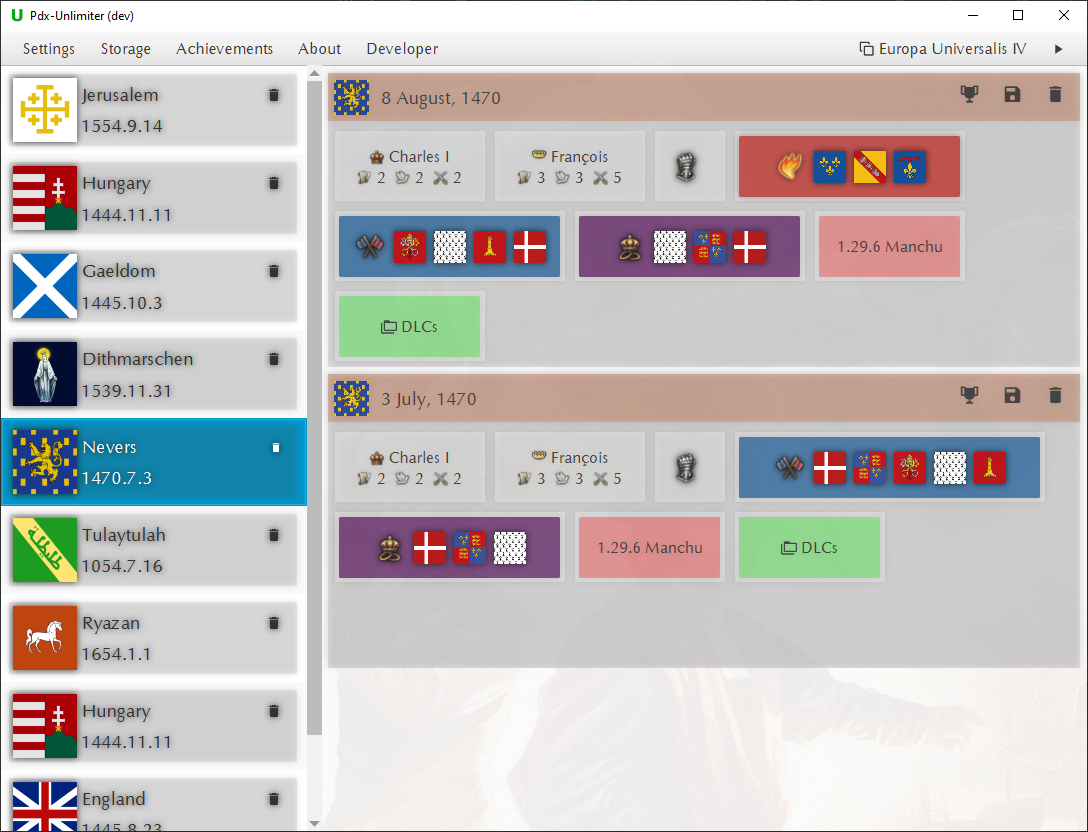
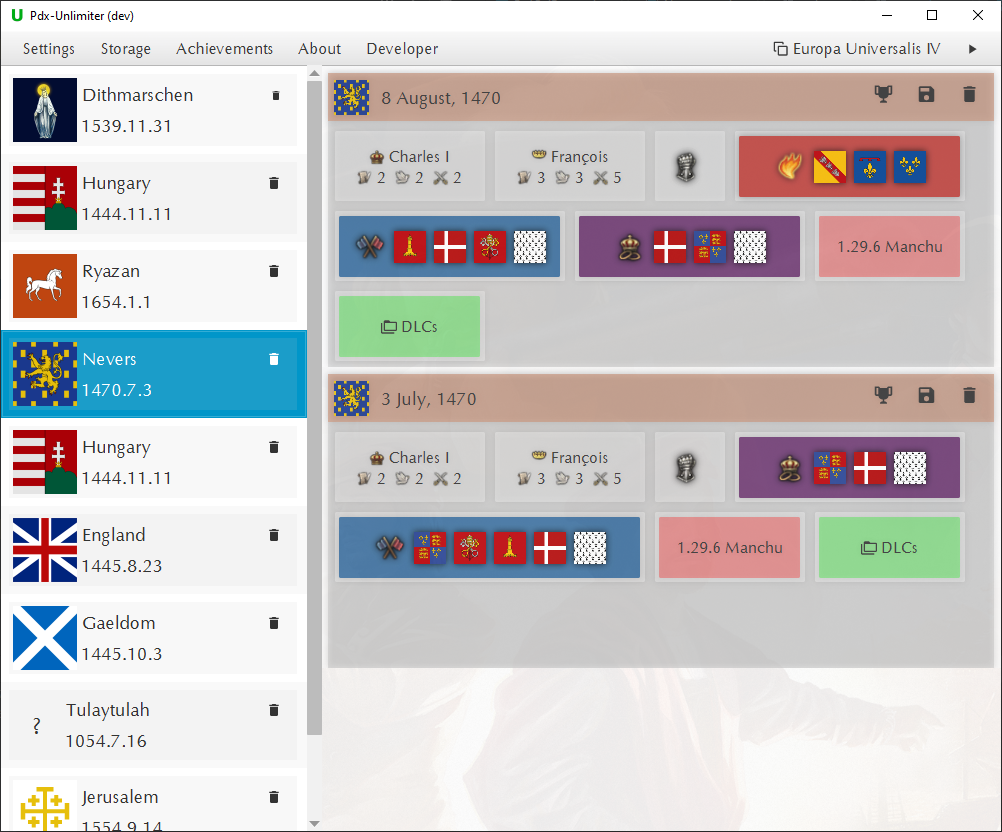
Fix drop shadow

diff --git a/app/src/main/resources/com/crschnick/pdx_unlimiter/app/campaign.css b/app/src/main/resources/com/crschnick/pdx_unlimiter/app/campaign.css
@@ -37,6 +37,5 @@
 .campaign-list-entry {
 -fx-padding: 0.25em;
 -fx-max-width: 18em;
--fx-background-color: #77777722;
--fx-effect: dropshadow(three-pass-box, rgba(0,0,0,0.8), 10, 0, 0, 0);
+-fx-background-color: #cccccc22;
 }
